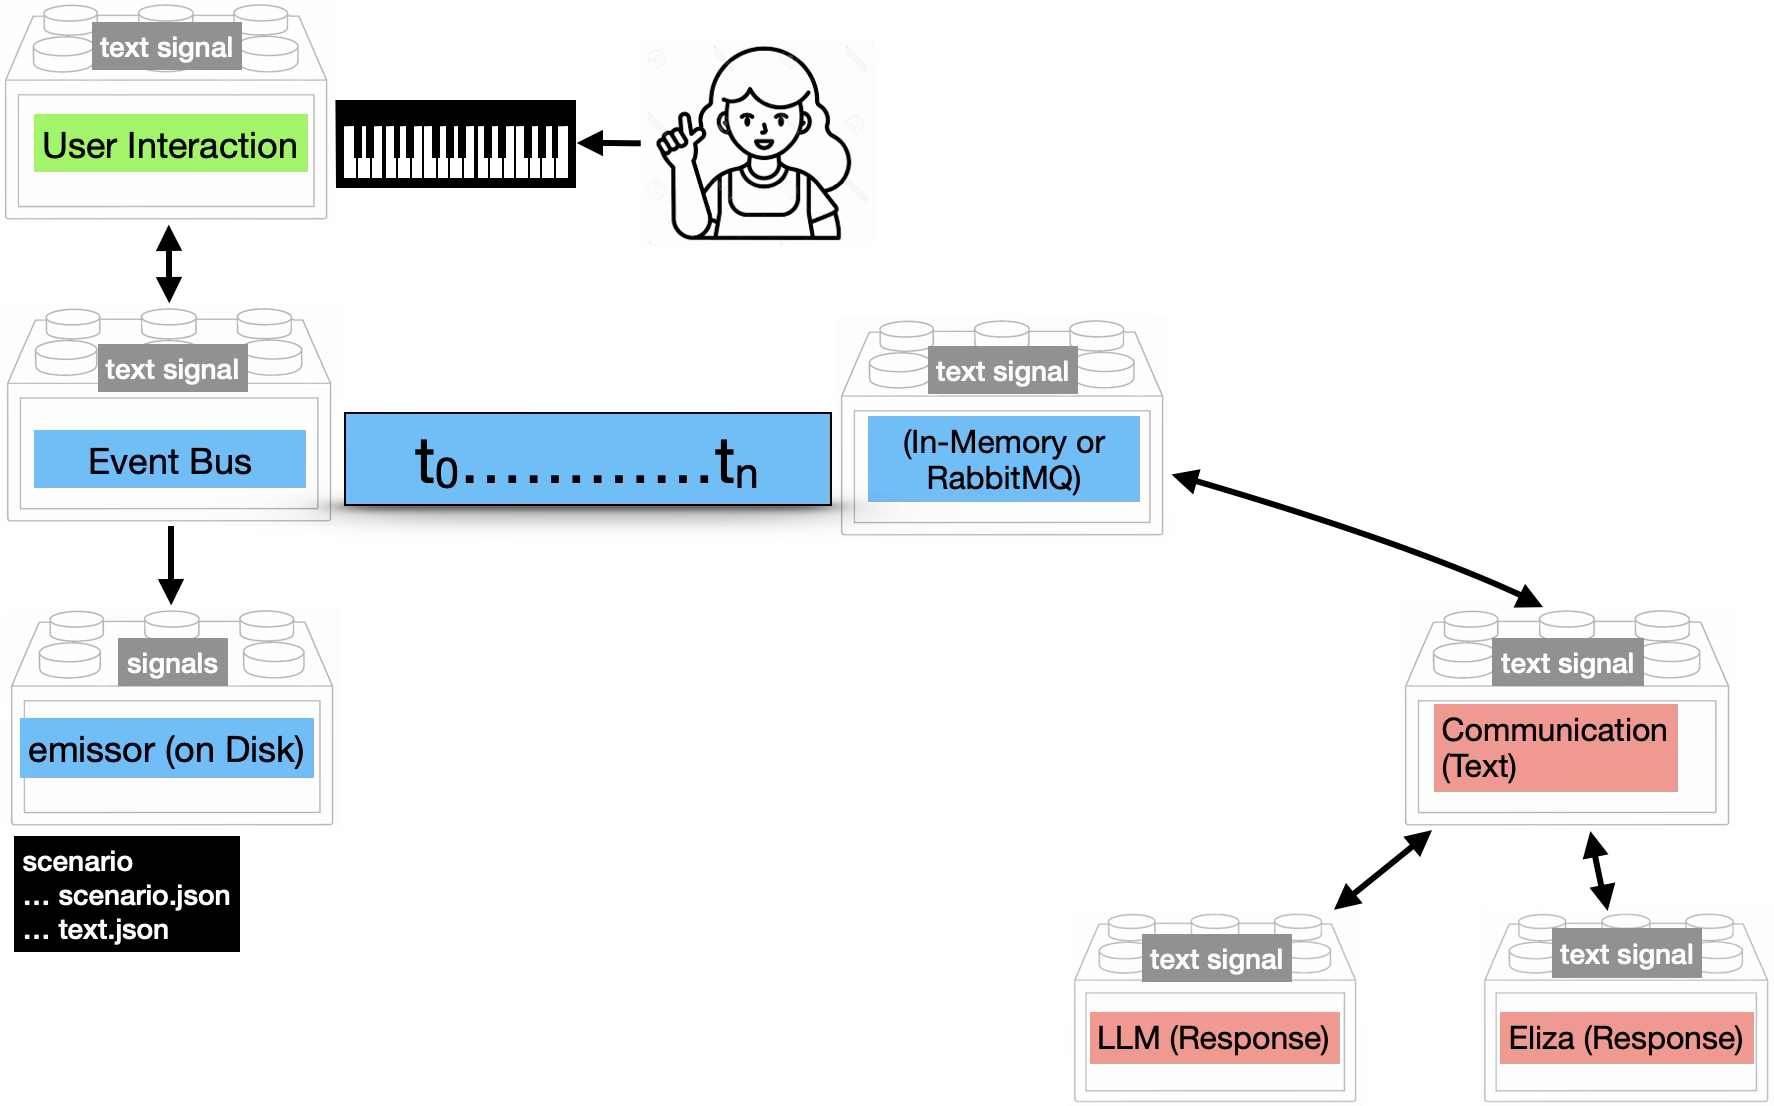
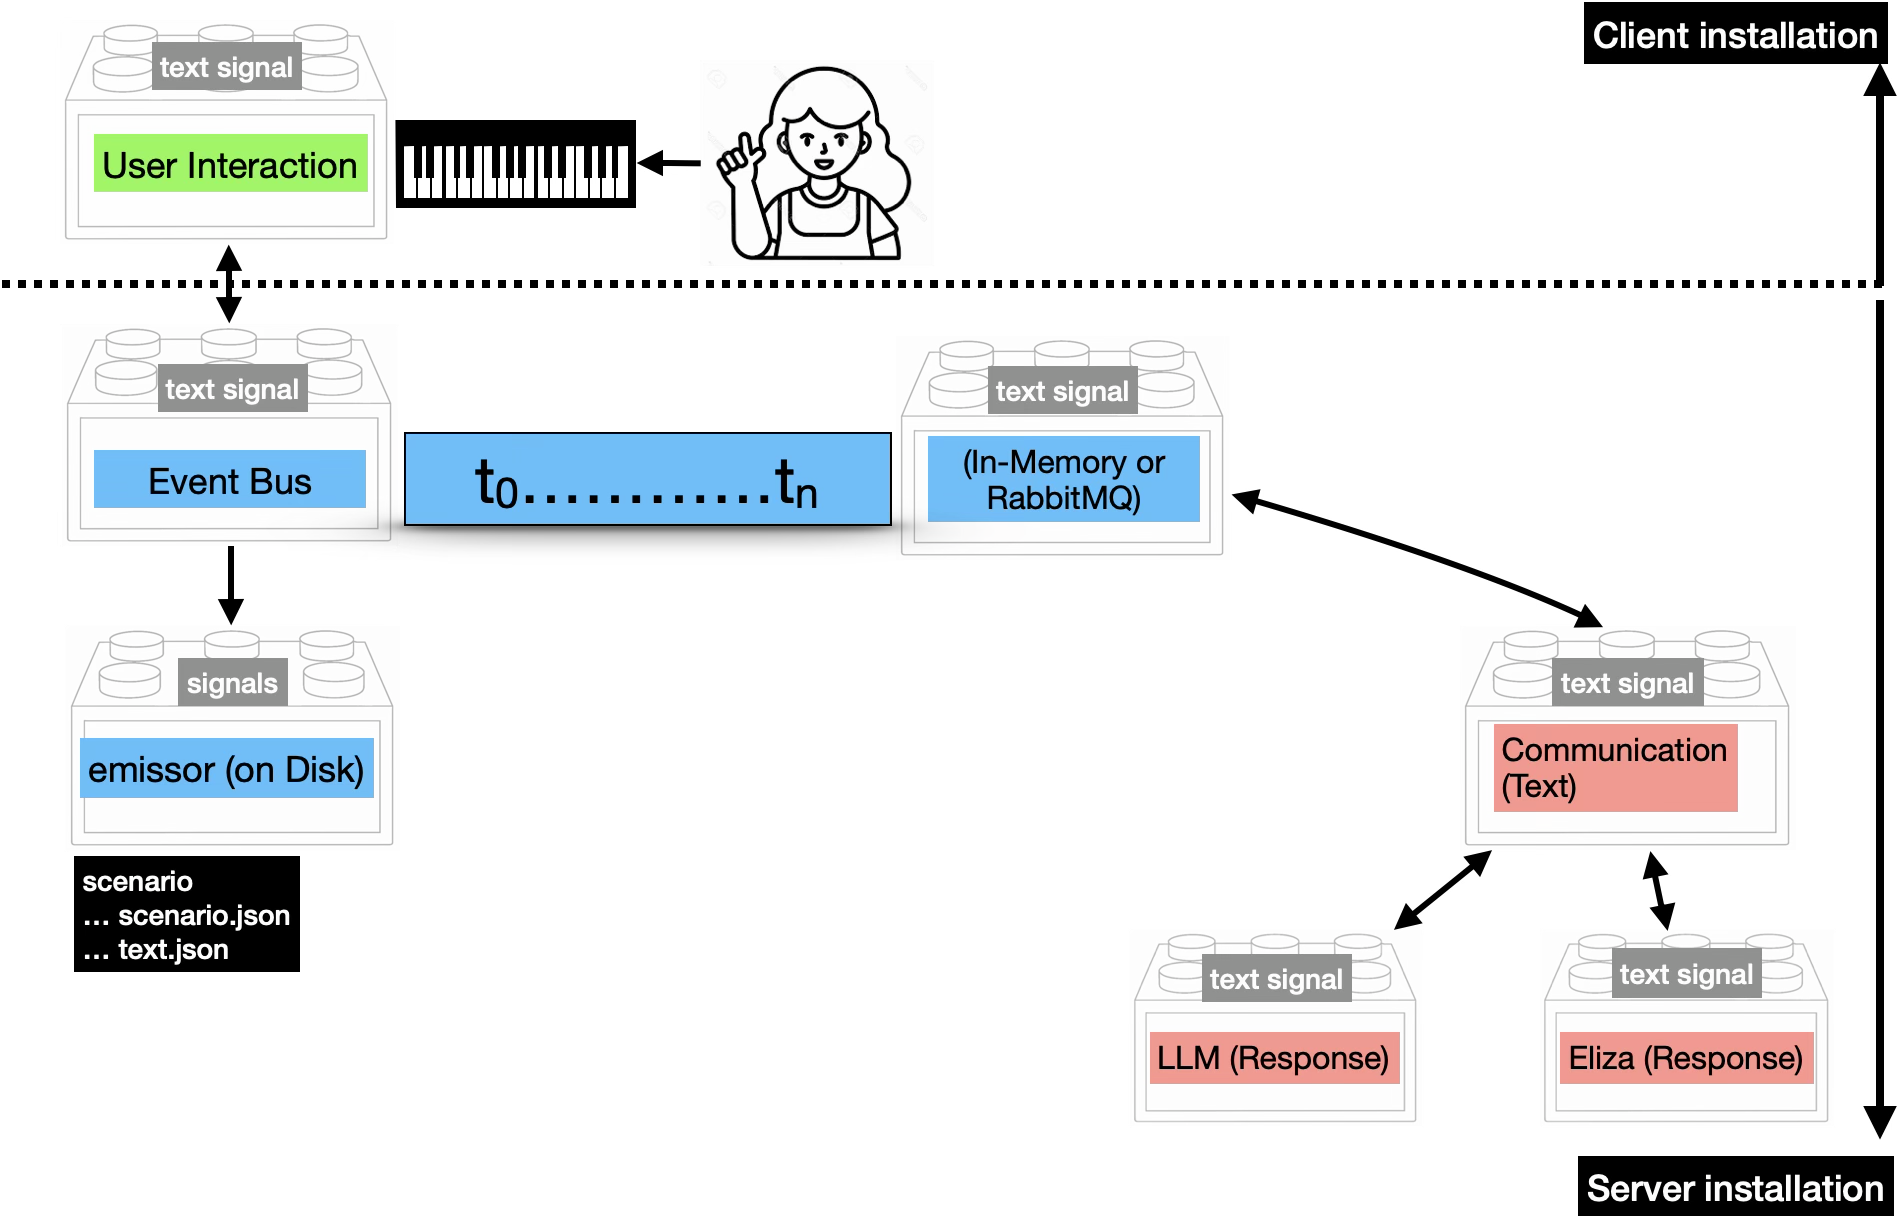
- documentation

Changed region(s): [[0.0, 0.0, 1.0, 1.0]]

diff --git a/doc/LEOLANI.md b/doc/LEOLANI.md
@@ -28,8 +28,17 @@ It is possible to develop your own module and your own agent application on top 
 Below, we will first explain the overall architecture of the Leolani platform with the core modules and, next, explain how different agents can be built from the building blocks.
 Finally, we explain how you can make your own module to run in the client machine in combination with the server to process signals.
 
+1. Prerequisites
+2. Overall Leolani architecture
+3. Text chat application
+4. Audio chat application
+5. Audio and Image chat application
+6. Knowledge Graph Integration
+7. Adding your own module 
+8. Creating a pipeline
 
-## Prerequisites
+
+## 1. Prerequisites
 
 All the architectures described below require that [Docker](https://docs.docker.com/engine/install/) is installed:
 ```
@@ -45,7 +54,7 @@ Furthermore, clone the current repository somewhere on Disk:
 git clone git@github.com:leolani/cltl-apps.git
 ```
 
-## Leolani architecture overview
+## 2. Overall Leolani architecture
 
 The core module of Leolani is the ```event-bus``` that keeps track of incoming signals during for a specific scenario.
 It uses a temporal ruler with a start time to keep track of any signals that are pushed at any moment in time. 
@@ -66,7 +75,7 @@ For every Leolani application, we need a server for the ```event-bus``` and ```e
 The user interaction is shown here at the top as a green component with a key-board input for the user through a chat User Interface (chat-ui). The blue boxes 
 represent the server modules.
 
-### Text chat application
+## 3. Text chat application
 
 The previous architecture only records text messages but does not respond. 
 In order to turn this into a conversational agent, we need to add a module that can pull a signal form the ```event-bus``` and publish a new signal as a response.
@@ -78,8 +87,10 @@ The response is a new ```Text Signal``` that is published on the ```event-bus```
 *Figure 3: Text chat architecture where a communication module generates a response via the LLM or Eliza module.*
 
 The ChatUI in the client program will listen to the ```event-bus``` for any ```Text Signal``` registered as a response from the agent and will display this to the user.
+Figure 3 shows how the client and server applications are separated. They can run on the same machine or on different machines.
+If the server is installed on a remote machine the URL mappings from client to server need to be adapted to make a connection (see below).
 
-There are two chat-only applications in this repository one that uses Eliza to respond and the other that uses an LLM:
+There are two chat-only server applications in this repository one that uses Eliza to respond and the other that uses an LLM:
 
 - docker-eliza-server
 - docker-llm-server
@@ -90,7 +101,7 @@ Both servers use the same chat-only client to get the user input and display the
 
 The client and the servers are available as Docker images:
 
-#### Docker images
+### Docker images
 
 *User-interaction client*:
 - uai-client-backend (ghcr.io/leolani/cltl-backend): 
@@ -107,7 +118,7 @@ The client and the servers are available as Docker images:
 
 The client and server directories contain a ```docker-compose.yml``` file that defines the Docker images needed and any other settings.
 
-#### How to run ELIZA-chat from the command line:
+### How to run ELIZA-chat from the command line:
 
 **i. Launch the server:**
 ```commandline
@@ -143,7 +154,7 @@ See the [README](../docker-client/README.md)) of the ```docker client``` for fur
 
 You stop the application using CTRL-C in the server and client terminal and by closing the web browser TAB.
 
-### Audio chat application
+## 4. Audio chat application
 
 The above set-up can only be used to chat. We can now augment this architecture with speech processing such that a user can have a spoken dialogue instead of typed chat messages.
 The global architecture for this is shown below:
@@ -178,7 +189,7 @@ Event-bus-server:
 - (ghcr.io/leolani/cltl-vad)
 - (ghcr.io/leolani/cltl-asr)
 
-####  Additional requirements
+###  Additional requirements
 
 In addition to the Docker images, this application also needs the following to run the backend server that captures the audio from the microphone:
 
@@ -186,7 +197,7 @@ In addition to the Docker images, this application also needs the following to r
 | Python | 3.8+ | For the host backend server (audio capture) |
 | PortAudio | — | `portaudio19-dev` on Debian/Ubuntu; `portaudio` via Homebrew on macOS |
 
-#### How to run ELIZA-talk from the command line:
+### How to run ELIZA-talk from the command line:
 
 **i. Launch the server:**
 ```commandline
@@ -218,7 +229,7 @@ http://localhost:8003/chatui/static/chat.html
 See the [README](../docker-client/README.md)) of the ```docker client``` for further details.
 
 
-### Audio and image 
+## 5. Audio and image 
 
 Combining audio and image input, processed through VAD, ASR and ImageR:
 
@@ -230,7 +241,7 @@ Multimodal input is captured through camera, microphone and text channels:
 
 The full set of client modules, covering voice activity detection (VAD), speech recognition (ASR), image recognition (ImageR) and response generation (LLM / Eliza):
 
-### Integrating a Knowledge Graph
+## 6. Knowledge Graph integration
 
 Annotations, such as interpretations and thoughts, are represented as triples and combined into a knowledge graph of claims:
 
@@ -238,9 +249,59 @@ Annotations, such as interpretations and thoughts, are represented as triples an
 
 *Figure 6: Knowledge graph representation of interpretations and thoughts as claims.*
 
+This architecture only requires a Knowledge Graph server and the ```docker-kg-server``` to be launched with the right connection settings to the Knowledge Graph.
+As a Knowledge Graphe server, we use GraphDB:
 
-### Integrating your own module
+2. Download [GraphDB](http://graphdb.ontotext.com/)
+2. Launch it
+3. Create a repository, you can use [this configuration](https://github.com/leolani/cltl-knowledgerepresentation/blob/main/src/cltl/brain/ontologies/BASIC-REPOSITORY-CONFIG-GRAPHDB.ttl)
 
-### Creating a pipeline
+## 7. Adding your own module
 
+Modules to process signals are registered at the server side and run on the server machine. 
+It is also possible to develop your own module and run it locally.
+This module checks the event-bus for any signals or annotations that it requires as input.
+It will pull the data from the event-bus, process it an push back a signal or annotation to the event-bus,
+where other modules can take it up again untill it eventually ends up as a response in the client UI.
 
+An example of such an architecture is shown in the next Figure, where the communication module runs locally on the client machine
+and calls an LLM to interpret the data that is pulled from the event bus:
+
+<img src="images/leolani-client-modules.png" alt="Leolani audio, image chat and knowledge graph response" width="50%">
+
+*Figure 7: Local client modules that connect to the event-bus.*
+
+## 8. Creating a pipeline
+
+The processing modules that operate on the event-bus run independently in separate threads. 
+To form a pipeline, the event-bus server registers the modules as so-called ```Topic Workers``` in a configuration file.
+The input and output of each module is defined as a ```topic``` with a name. 
+By aligning the input name of a module with the output of another module, a pipeline connection can be created.
+For example:
+
+```commandline
+
+```
+Details of the pipeline architecture are explained in [Baier et al 2026](https://journals.uic.edu/ojs/index.php/dad/article/view/13303).
+
+## Citation
+If you use these applications or the EMISSOR framework in your research, please cite:
+
+@article{baier2025modular,
+  title={A modular architecture for creating multimodal embodied agents with an episodic Knowledge Graph as an explainable and controllable long-term memory},
+  author={Baier, Thomas and Santamar{\'\i}a, Selene B{\'a}ez and Vossen, Piek},
+  journal={Dialogue \& Discourse},
+  volume={16},
+  number={3},
+  pages={25--59},
+  year={2025}
+}
+@inproceedings{emissor:2021,
+    title = {EMISSOR: A platform for capturing multimodal interactions as Episodic Memories and Interpretations with Situated Scenario-based Ontological References},
+    author = {Selene Baez Santamaria and Thomas Baier and Taewoon Kim and Lea Krause and Jaap Kruijt and Piek Vossen},
+    url = {https://mmsr-workshop.github.io/programme},
+    booktitle = {Proceedings of the MMSR workshop "Beyond Language: Multimodal Semantic Representations", IWSC2021},
+    year = {2021}
+}
+
+_
